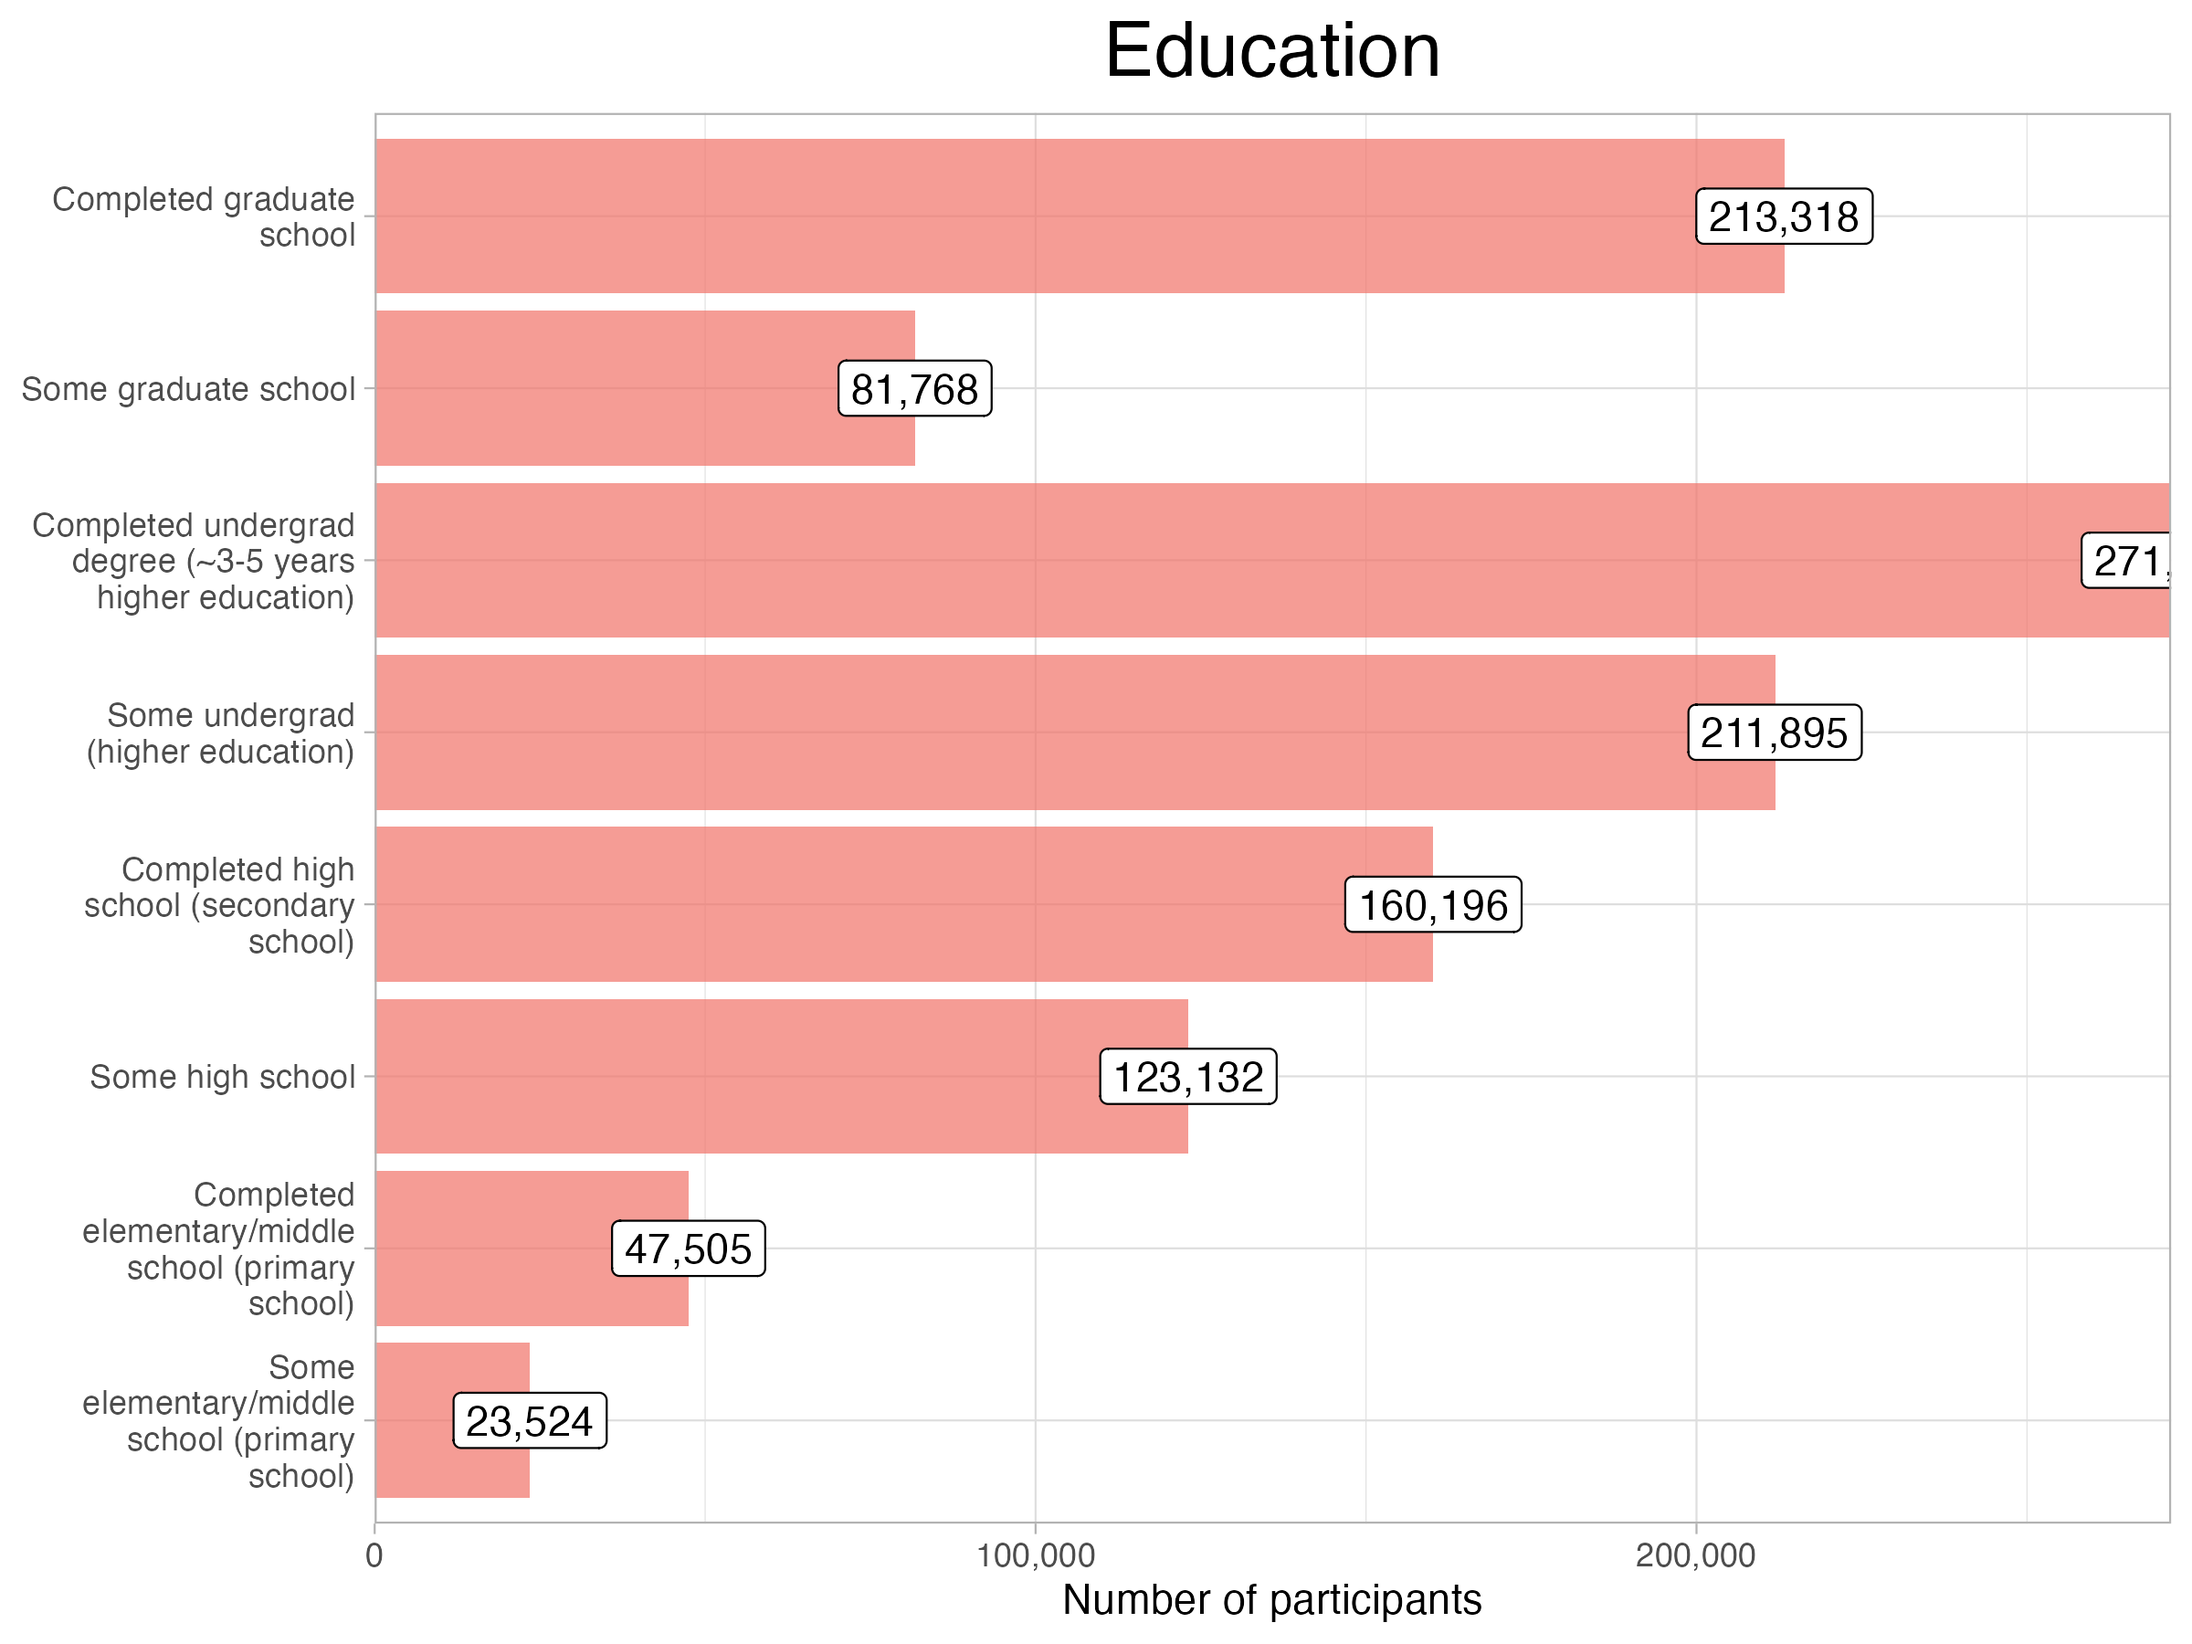
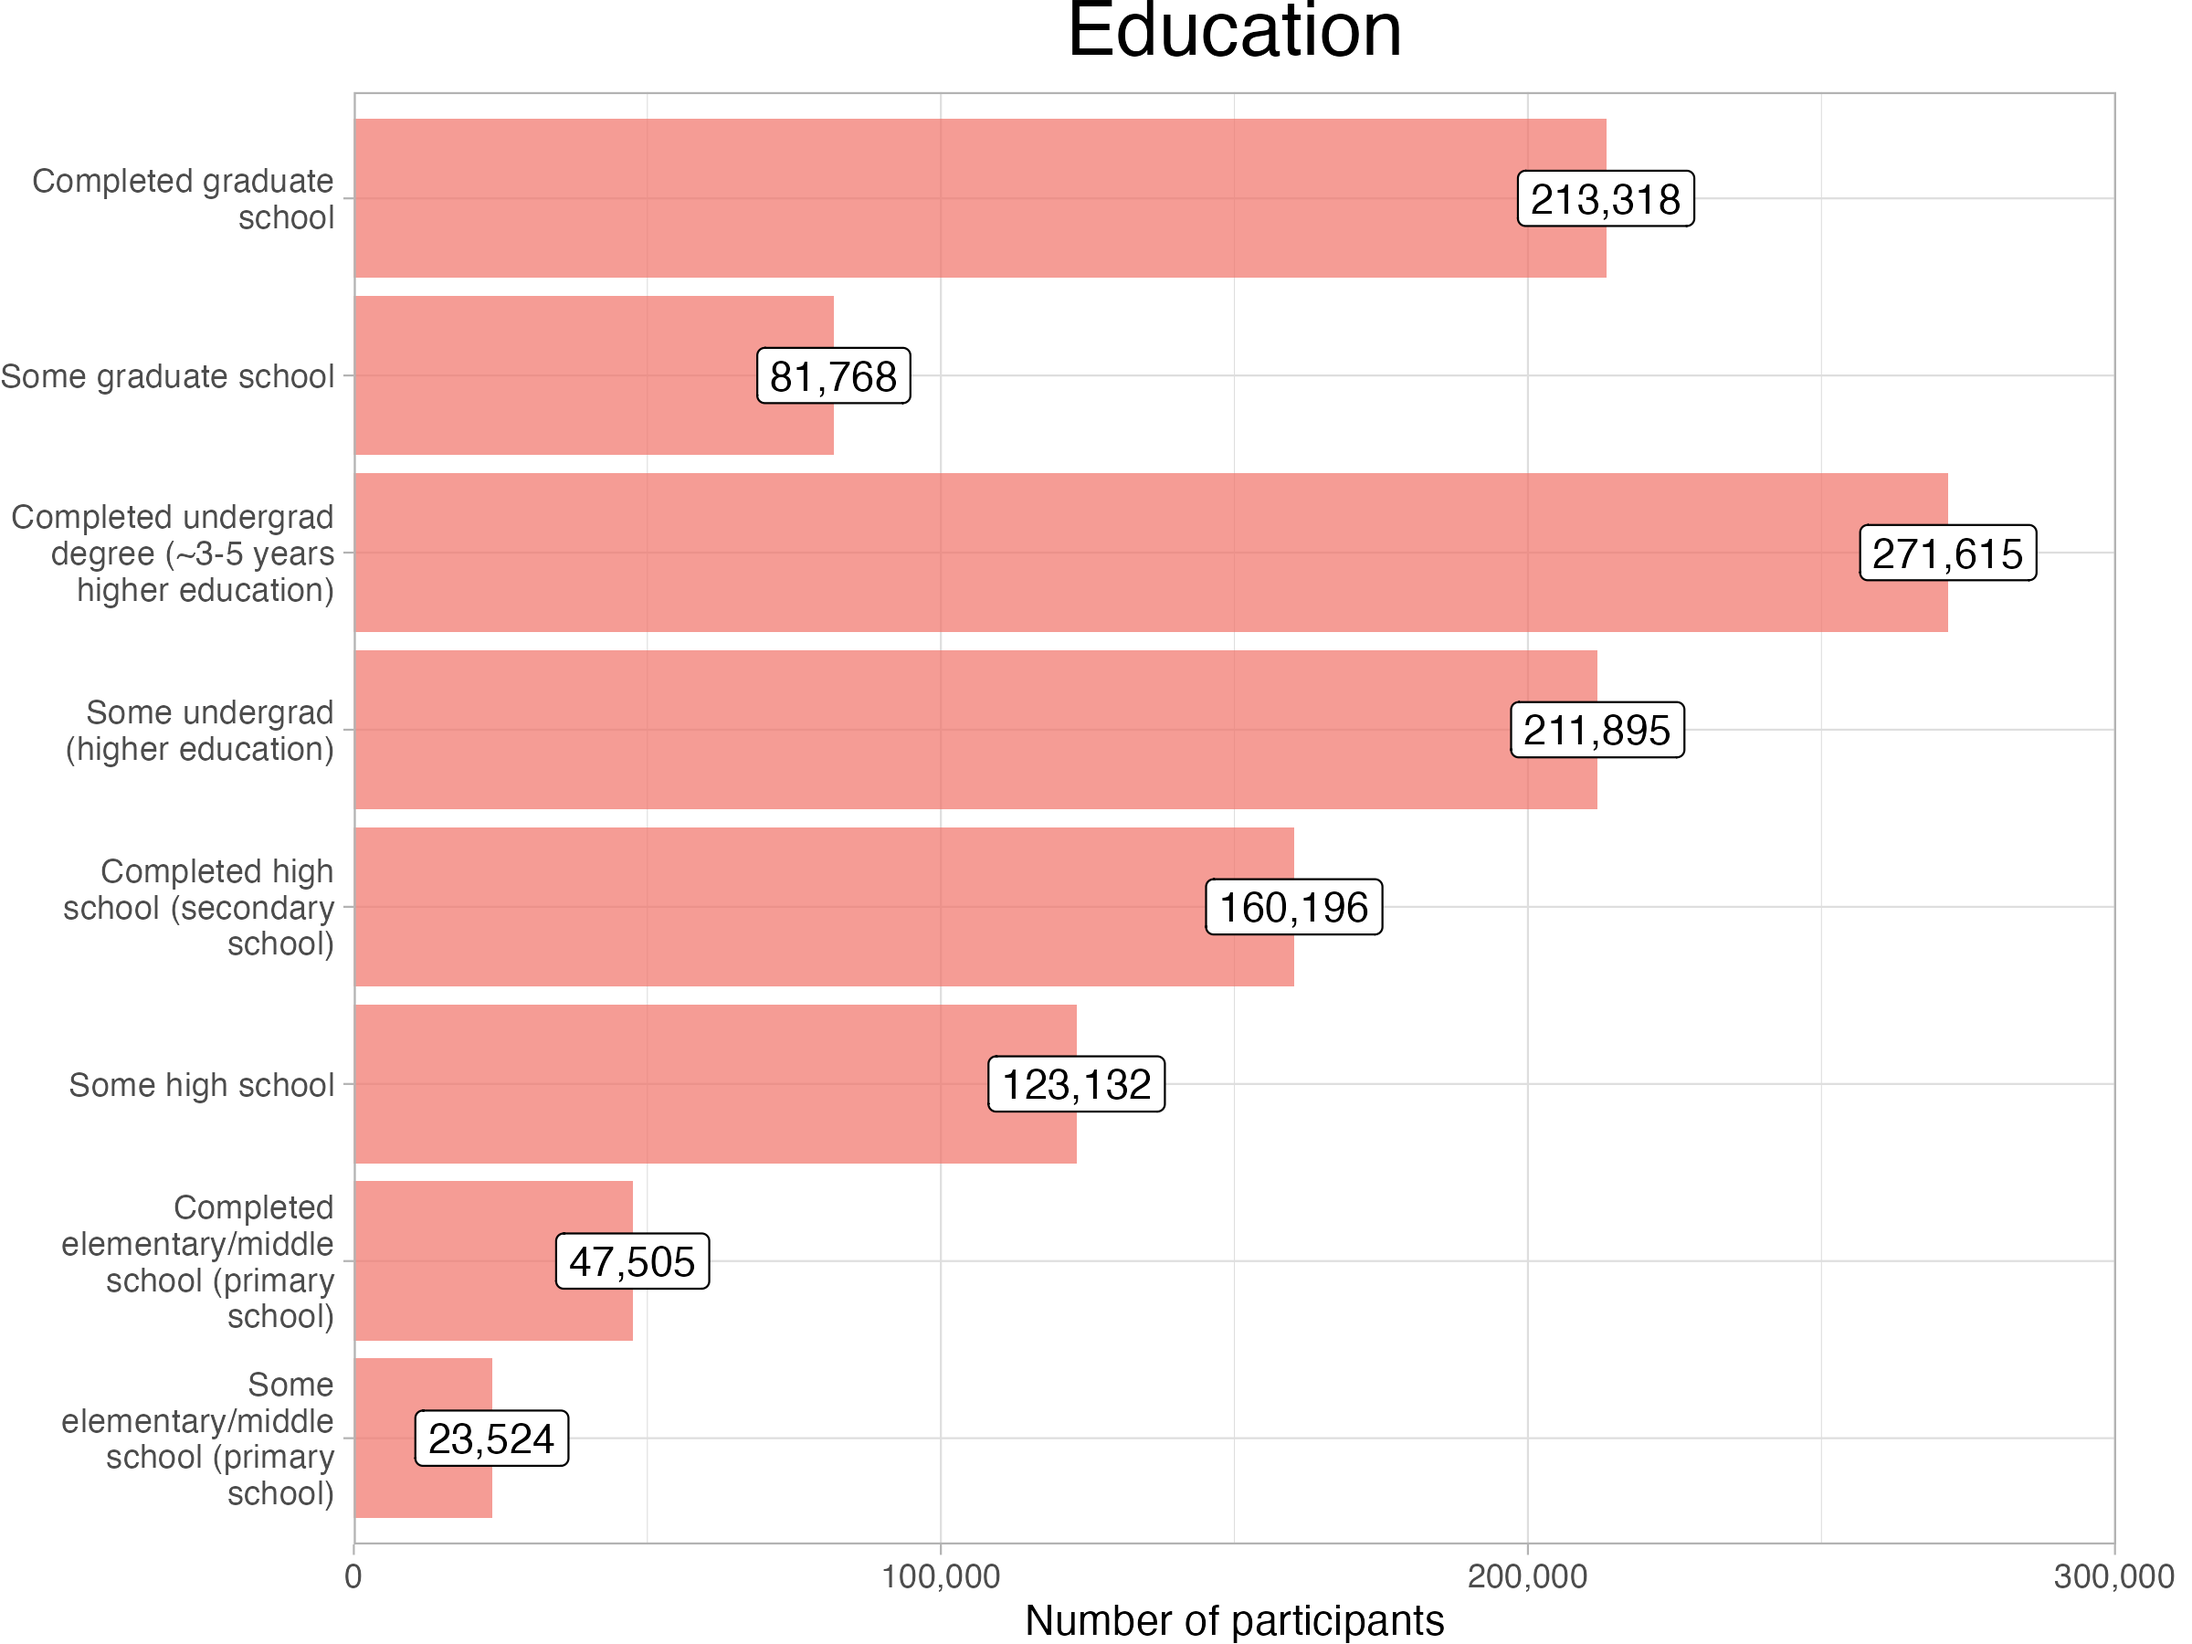
updates

diff --git a/index.html b/index.html
@@ -396,6 +396,38 @@
 </div>
 </div>
 </section>
+<section class="slide level2">
+
+<div class="slide-content full">
+<div class="img-wrap abs-center" style="width:65%;">
+<img data-src="media/figures/correlation_example_blank.png" style="display:block;max-width:100%;max-height:100%;">
+</div>
+</div>
+</section>
+<section class="slide level2">
+
+<div class="slide-content full">
+<div class="img-wrap abs-center" style="width:65%;">
+<img data-src="media/figures/correlation_example_min1.png" style="display:block;max-width:100%;max-height:100%;">
+</div>
+</div>
+</section>
+<section class="slide level2">
+
+<div class="slide-content full">
+<div class="img-wrap abs-center" style="width:65%;">
+<img data-src="media/figures/correlation_example_min2.png" style="display:block;max-width:100%;max-height:100%;">
+</div>
+</div>
+</section>
+<section class="slide level2">
+
+<div class="slide-content full">
+<div class="img-wrap abs-center" style="width:65%;">
+<img data-src="media/figures/correlation_example.png" style="display:block;max-width:100%;max-height:100%;">
+</div>
+</div>
+</section>
 <section id="how-do-we-get-bigger-and-more-diverse-datasets" class="slide level2 title-center clear">
 <h2>how do we get bigger and more diverse datasets?</h2>
 </section>
